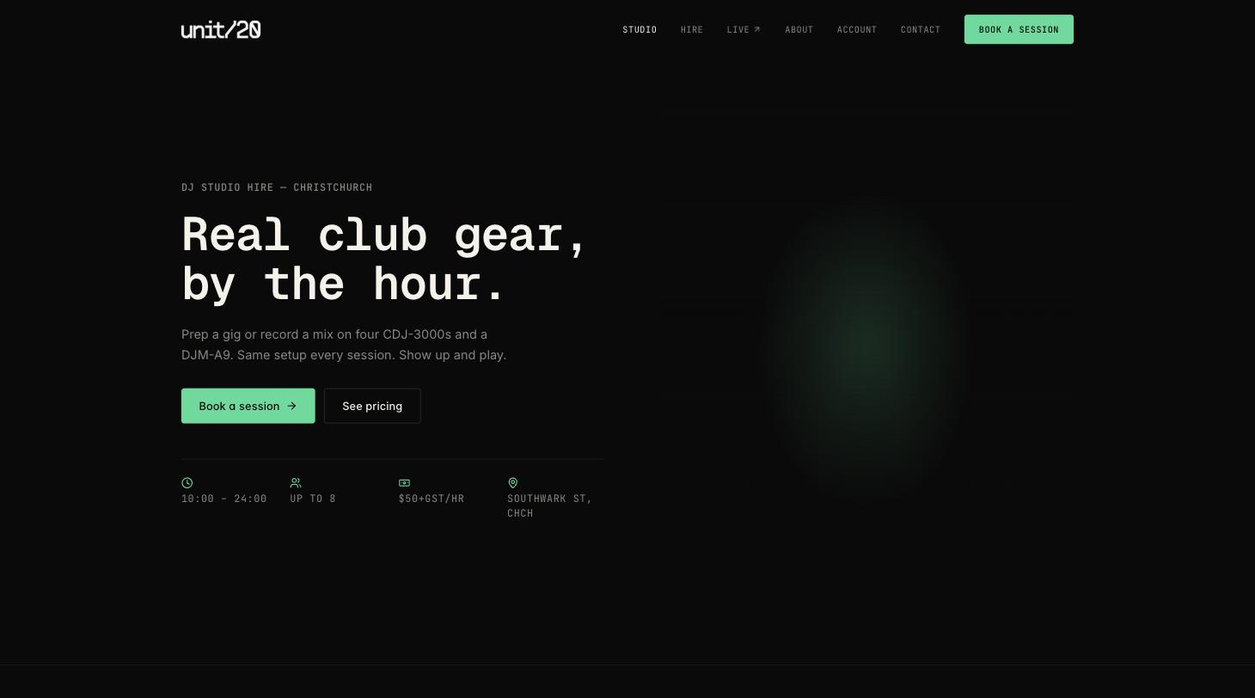
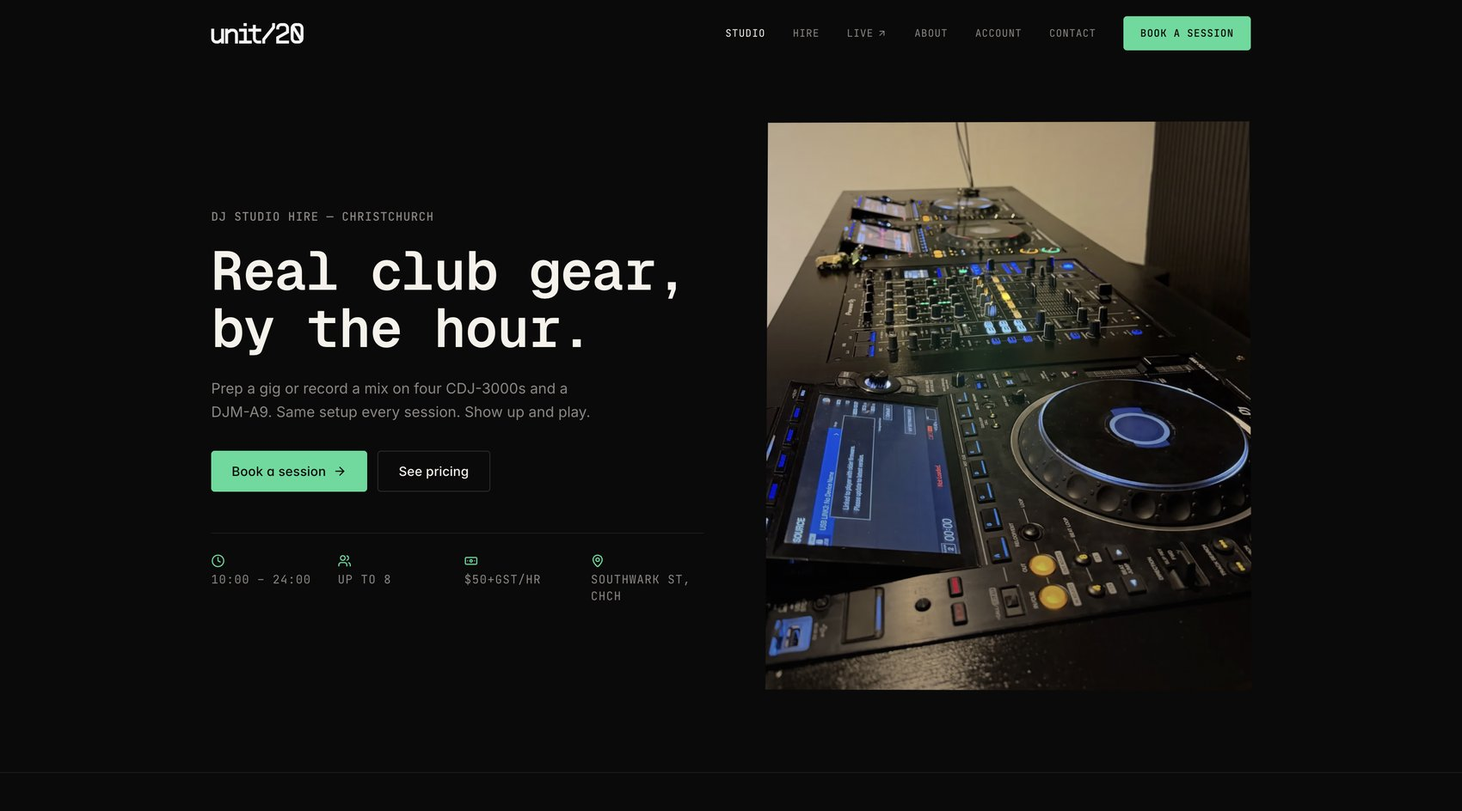
Add event photography, refresh hero copy, simplify nav
- Add five new photos (OurSound, cellar, crew marquee, truck, studio admin)
  and fill the previously empty project image slot; replace studio-site.jpg
  with a higher-resolution version
- Rework hero intro copy: credit Joseph Hendry as co-builder of the Unit 20
  ticketing platform, mention the studio booking site
- Simplify the top nav to wordmark plus a Download CV button
- Update the CV PDF

diff --git a/index.html b/index.html
@@ -63,17 +63,8 @@
 <div style="background: var(--color-bg); overflow-x: hidden;">
 
   <div style="position: fixed; top: 0; left: 0; right: 0; z-index: 60; display: flex; align-items: center; gap: 20px; padding: 14px clamp(20px, 5vw, 56px); background: color-mix(in srgb, var(--color-bg) 82%, transparent); backdrop-filter: blur(14px); border-bottom: 1px solid var(--color-neutral-800);">
-    <a href="#top" style="font-family: var(--font-heading); font-weight: 500; font-size: 15px; color: var(--color-text); margin-right: auto; display: flex; align-items: center; gap: 10px;">
-      <span style="width: 9px; height: 9px; border-radius: 50%; background: var(--accent); box-shadow: 0 0 12px var(--accent); display: inline-block;"></span>
-      Will Thompson
-    </a>
-    <div style="display: flex; gap: clamp(10px, 2vw, 24px); font-size: 12.5px; font-weight: 500; letter-spacing: 0.02em;">
-      <a href="#unit20" style="color: var(--color-neutral-300);" style-hover="color: var(--color-text);">Unit 20</a>
-      <a href="#allears" style="color: var(--color-neutral-300);" style-hover="color: var(--color-text);">All Ears</a>
-      <a href="#software" style="color: var(--color-neutral-300);" style-hover="color: var(--color-text);">Software</a>
-      <a href="#crew" style="color: var(--color-neutral-300);" style-hover="color: var(--color-text);">The app</a>
-      <a href="#cv" class="btn btn-primary" style="padding: 6px 14px; font-size: 12.5px;">CV ↓</a>
-    </div>
+    <a href="#top" style="font-family: var(--font-heading); font-weight: 500; font-size: 15px; color: var(--color-text); margin-right: auto;">Will Thompson</a>
+    <a href="{{ cvUrl }}" download="Will Thompson CV.pdf" class="btn btn-primary" style="padding: 6px 14px; font-size: 12.5px;">Download CV</a>
   </div>
 
   <section id="top" data-screen-label="Hero" style="position: relative; min-height: 108vh; display: flex; align-items: center; padding: 120px clamp(20px, 5vw, 56px) 60px;">
@@ -84,12 +75,12 @@
         <div style="font-size: 11px; color: var(--color-neutral-400); margin-top: 8px;">Twominds · lasers &amp; LED</div>
       </div>
       <div data-phys="0.78,0.05,150,3" style="position: absolute; width: clamp(130px, 14vw, 240px); will-change: transform;">
-        <div class="lighten"><img src="https://allears.nz/events/concarne4.webp" alt="ConCarne Wild Horses" style="display: block; width: 100%; border-radius: var(--radius-md); pointer-events: none;"></div>
-        <div style="font-size: 11px; color: var(--color-neutral-400); margin-top: 8px;">ConCarne · lighting &amp; FX</div>
+        <div class="lighten"><img src="assets/oursound-event.jpg" alt="OurSound monthly event" style="display: block; width: 100%; border-radius: var(--radius-md); pointer-events: none;"></div>
+        <div style="font-size: 11px; color: var(--color-neutral-400); margin-top: 8px;">OurSound · our monthly events</div>
       </div>
       <div data-phys="0.05,0.62,120,2" style="position: absolute; width: clamp(110px, 11vw, 190px); will-change: transform;">
-        <div class="lighten"><img src="https://allears.nz/events/rvsitelighting.webp" alt="Rhythm and Vines site lighting" style="display: block; width: 100%; border-radius: var(--radius-md); pointer-events: none;"></div>
-        <div style="font-size: 11px; color: var(--color-neutral-400); margin-top: 8px;">R&amp;V · site lighting</div>
+        <div class="lighten"><img src="https://allears.nz/events/rvgarden20252.webp" alt="Rhythm and Vines Garden Stage" style="display: block; width: 100%; border-radius: var(--radius-md); pointer-events: none;"></div>
+        <div style="font-size: 11px; color: var(--color-neutral-400); margin-top: 8px;">R&amp;V · Garden Stage</div>
       </div>
       <div data-phys="0.86,0.60,140,-3" style="position: absolute; width: clamp(120px, 13vw, 220px); will-change: transform;">
         <div class="lighten"><img src="https://allears.nz/events/flowdanchch6.webp" alt="Flowdan NZ tour" style="display: block; width: 100%; border-radius: var(--radius-md); pointer-events: none;"></div>
@@ -105,7 +96,7 @@
       </div>
       <div data-phys="0.94,0.32,110,4" style="position: absolute; width: clamp(100px, 10vw, 180px); will-change: transform;">
         <img src="assets/unit20-site.jpg" alt="unit20.nz ticketing site" style="display: block; width: 100%; aspect-ratio: 16/10; object-fit: cover; border-radius: 8px; border: 1px solid var(--color-neutral-600); pointer-events: none;">
-        <div style="font-size: 11px; color: var(--color-neutral-400); margin-top: 8px;">unit20.nz · ticketing, built solo</div>
+        <div style="font-size: 11px; color: var(--color-neutral-400); margin-top: 8px;">unit20.nz · ticketing platform</div>
       </div>
       <div data-phys="0.16,0.78,110,3" style="position: absolute; width: clamp(100px, 10vw, 180px); will-change: transform;">
         <img src="assets/studio-site.jpg" alt="studio.unit20.nz" style="display: block; width: 100%; border-radius: var(--radius-md); border: 1px solid var(--color-neutral-600); pointer-events: none;">
@@ -116,28 +107,24 @@
         <div style="font-size: 11px; color: var(--color-neutral-400); margin-top: 8px;">the code underneath</div>
       </div>
       <div data-phys="0.45,0.90,100,-3" style="position: absolute; width: clamp(90px, 9vw, 160px); will-change: transform;">
-        <image-slot id="hero-uni" shape="rounded" radius="8" style="width: 100%; aspect-ratio: 16/10;" placeholder="Uni project screenshot"></image-slot>
-        <div style="font-size: 11px; color: var(--color-neutral-400); margin-top: 8px;">SENG302 · university build</div>
+        <img src="assets/studio-admin.jpg" alt="Unit 20 studio admin dashboard" style="display: block; width: 100%; aspect-ratio: 16/10; object-fit: cover; object-position: left top; border-radius: 8px; border: 1px solid var(--color-neutral-600); pointer-events: none;">
+        <div style="font-size: 11px; color: var(--color-neutral-400); margin-top: 8px;">the studio admin · built this too</div>
       </div>
     </div>
 
     <div style="position: relative; z-index: 2; max-width: 1200px; margin: 0 auto; width: 100%; text-align: left; pointer-events: none;">
     <div data-hero-copy style="display: inline-block; max-width: 100%;">
-      <div style="display: inline-flex; align-items: center; gap: 10px; border: 1px solid var(--color-neutral-700); border-radius: 999px; padding: 8px 16px; font-size: 12.5px; color: var(--color-neutral-200); pointer-events: auto; animation: popSm linear both; animation-timeline: view(); animation-range: entry 0% entry 50%;">
-        <span style="width: 8px; height: 8px; border-radius: 50%; background: var(--accent); box-shadow: 0 0 10px var(--accent);"></span>
-        Christchurch, NZ · software engineer · founder
-      </div>
+      <div style="font-size: 12.5px; letter-spacing: 0.08em; text-transform: uppercase; color: var(--color-neutral-300); animation: popSm linear both; animation-timeline: view(); animation-range: entry 0% entry 50%;">Ōtautahi · software engineer · founder</div>
       <h1 style="font-size: clamp(42px, 7.6vw, 118px); line-height: 1.0; letter-spacing: -0.04em; font-weight: 500; margin: 26px 0 0; max-width: 14ch; animation: pop linear both; animation-timeline: view(); animation-range: entry 0% entry 80%;">
         I run shows.<br>
         I write the <span style="background: linear-gradient(90deg, var(--accent), var(--accent-soft), var(--accent)); background-size: 300% 100%; -webkit-background-clip: text; background-clip: text; color: transparent; animation: gradText 12s linear infinite;">software</span><br>
         that runs them.
       </h1>
       <p style="font-size: clamp(15px, 1.4vw, 19px); line-height: 1.55; color: var(--color-neutral-200); max-width: 52ch; margin: 26px 0 0; text-wrap: pretty; animation: popSm linear both; animation-timeline: view(); animation-range: entry 0% cover 6%;">
-        Will Thompson, founder of <a href="#allears" style="color: var(--accent); pointer-events: auto;">All Ears Events</a>, operator of the <a href="#unit20" style="color: var(--accent); pointer-events: auto;">Unit 20</a> warehouse &amp; studios, and sole developer of <a href="#crew" style="color: var(--accent); pointer-events: auto;">All Ears Crew</a>, the Unit 20 ticketing platform and the studio booking site that run it all.
+        Will Thompson, founder of <a href="#allears" style="color: var(--accent); pointer-events: auto;">All Ears Events</a>, operator of the <a href="#unit20" style="color: var(--accent); pointer-events: auto;">Unit 20</a> warehouse &amp; studios, sole developer of <a href="#crew" style="color: var(--accent); pointer-events: auto;">All Ears Crew</a> and the studio booking site, and co-builder of the Unit 20 ticketing platform with Joseph Hendry.
       </p>
       <div style="display: flex; align-items: center; gap: 14px; margin-top: 34px; pointer-events: auto; animation: popSm linear both; animation-timeline: view(); animation-range: entry 0% cover 8%;">
-        <a href="#unit20" class="btn btn-primary">Take the tour</a>
-        <a href="#cv" class="btn btn-ghost">Download CV</a>
+        <a href="#allears" class="btn btn-primary">Take the tour</a>
       </div>
     </div>
     </div>
@@ -147,78 +134,38 @@
 
   <div style="border-top: 1px solid var(--color-neutral-800); border-bottom: 1px solid var(--color-neutral-800);">
     <div style="max-width: 1200px; margin: 0 auto; padding: 24px clamp(20px, 5vw, 56px); display: flex; flex-wrap: wrap; align-items: baseline; gap: 16px 40px;">
-      <span style="font-size: 12px; letter-spacing: 0.08em; text-transform: uppercase; color: var(--color-neutral-400);">Selected work</span>
+      <span style="font-size: 12px; letter-spacing: 0.08em; text-transform: uppercase; color: var(--color-neutral-400);">In numbers</span>
       <div style="display: flex; flex-wrap: wrap; gap: 16px 32px; font-size: 14px; color: var(--color-neutral-200);">
-        <span>Rhythm &amp; Vines</span><span>Red Bull</span><span>George FM</span><span>Flowdan</span><span>Twominds</span><span>Our Sound</span><span>Kathryn Wilson</span>
+        <span><strong style="color: var(--color-text); font-weight: 600;">2024</strong> All Ears founded</span><span><strong style="color: var(--color-text); font-weight: 600;">350 to 500</strong> at monthly OurSound events</span><span><strong style="color: var(--color-text); font-weight: 600;">$54,000+</strong> in ticket payments processed</span><span><strong style="color: var(--color-text); font-weight: 600;">39,500</strong> lines of production code</span>
       </div>
     </div>
   </div>
-
-  <section id="unit20" data-screen-label="Unit 20" style="position: relative; max-width: 1200px; margin: 0 auto; padding: clamp(80px, 12vh, 150px) clamp(20px, 5vw, 56px) 0;">
-    <div style="display: inline-flex; align-items: center; gap: 8px; background: color-mix(in srgb, var(--accent) 14%, transparent); color: var(--accent); border-radius: 999px; padding: 6px 14px; font-size: 12px; font-weight: 600; letter-spacing: 0.08em; text-transform: uppercase; animation: popSm linear both; animation-timeline: view(); animation-range: entry 0% entry 80%;">The HQ</div>
-    <h2 style="font-size: clamp(34px, 5.4vw, 76px); line-height: 1.02; letter-spacing: -0.035em; font-weight: 500; margin: 18px 0 0; max-width: 18ch; animation: pop linear both; animation-timeline: view(); animation-range: entry 0% cover 12%;">Unit 20, a warehouse that runs itself.</h2>
-    <div data-grid style="display: grid; grid-template-columns: minmax(0, 1fr) minmax(0, 1.1fr); gap: clamp(24px, 4vw, 64px); margin-top: clamp(28px, 4vw, 48px); align-items: start;">
-      <div>
-        <p style="font-size: clamp(15px, 1.3vw, 18px); line-height: 1.6; color: var(--color-neutral-200); margin: 0; text-wrap: pretty;">
-          Warehouse, workshop, event space and bookable studios. It's the base every show packs out of, and the proving ground for everything I build: customers schedule their own pickups and the door unlocks itself with a time-boxed code, labels print unattended in the workshop, and a wall display shows the crew what's leaving today.
-        </p>
-        <div style="display: flex; flex-direction: column; gap: 0; margin-top: 28px; border-top: 1px solid var(--color-neutral-800);">
-          <div style="display: flex; gap: 14px; padding: 16px 0; border-bottom: 1px solid var(--color-neutral-800); animation: popSm linear both; animation-timeline: view(); animation-range: entry 0% cover 18%;">
-            <div><strong style="font-weight: 600;">Self-service dry hire.</strong> <span style="color: var(--color-neutral-300);">Pick a time online, get a door code by email, collect your gear. A customer can pick up at 7am on a Sunday with nobody on site.</span></div>
-          </div>
-          <div style="display: flex; gap: 14px; padding: 16px 0; border-bottom: 1px solid var(--color-neutral-800); animation: popSm linear both; animation-timeline: view(); animation-range: entry 0% cover 22%;">
-            <div><strong style="font-weight: 600;">Unit 20 Studios.</strong> <span style="color: var(--color-neutral-300);">A DJ practice studio booked online at studio.unit20.nz. Pay, verify your ID once, and your door code arrives automatically.</span></div>
-          </div>
-          <div style="display: flex; gap: 14px; padding: 16px 0; border-bottom: 1px solid var(--color-neutral-800); animation: popSm linear both; animation-timeline: view(); animation-range: entry 0% cover 24%;">
-            <div><strong style="font-weight: 600;">Unit 20 Live.</strong> <span style="color: var(--color-neutral-300);">Ticketing for our own shows at unit20.nz. Card payments, QR check-in, pre-sale ballots and a full admin dashboard, with $54,000+ in payments processed to date.</span></div>
-          </div>
-          <div style="display: flex; gap: 14px; padding: 16px 0; border-bottom: 1px solid var(--color-neutral-800); animation: popSm linear both; animation-timeline: view(); animation-range: entry 0% cover 26%;">
-            <div><strong style="font-weight: 600;">One shared system.</strong> <span style="color: var(--color-neutral-300);">The studio and the AV company share one database, so the studio calendar automatically refuses bookings on days the decks are out on a show.</span></div>
-          </div>
-        </div>
-      </div>
-      <div style="position: relative; min-height: 480px;">
-        <div style="position: absolute; top: 0; left: 0; width: 62%; rotate: -3deg; z-index: 2; animation: float2 linear both; animation-timeline: view(); animation-range: cover 0% cover 100%;">
-          <img src="assets/unit20-building.jpg" alt="The Unit 20 building on Southwark Street" style="display: block; width: 100%; aspect-ratio: 4/3; object-fit: cover; border-radius: 10px;">
-          <div style="font-size: 11px; color: var(--color-neutral-400); margin-top: 6px;">Unit 20, Southwark Street</div>
-        </div>
-        <div style="position: absolute; top: 34%; right: 0; width: 52%; rotate: 2.5deg; z-index: 3; animation: float1 linear both; animation-timeline: view(); animation-range: cover 0% cover 100%;">
-          <image-slot id="u20-lock" shape="rounded" radius="10" style="width: 100%; aspect-ratio: 1/1;" placeholder="The smart lock / door code moment"></image-slot>
-          <div style="font-size: 11px; color: var(--color-neutral-400); margin-top: 6px; text-align: right;">The door that opens itself</div>
-        </div>
-        <div style="position: absolute; bottom: 0; left: 8%; width: 48%; rotate: 1.5deg; z-index: 1; animation: float5 linear both; animation-timeline: view(); animation-range: cover 0% cover 100%;">
-          <img src="assets/studio-room.jpg" alt="Unit 20 Studios DJ room" style="display: block; width: 100%; aspect-ratio: 4/3; object-fit: cover; object-position: center 60%; border-radius: 10px;">
-          <div style="font-size: 11px; color: var(--color-neutral-400); margin-top: 6px;">Studios</div>
-        </div>
-      </div>
-    </div>
-  </section>
 
   <section id="allears" data-screen-label="All Ears" style="position: relative; max-width: 1200px; margin: 0 auto; padding: clamp(80px, 12vh, 150px) clamp(20px, 5vw, 56px) 0;">
     <div style="display: inline-flex; align-items: center; gap: 8px; background: color-mix(in srgb, var(--accent) 14%, transparent); color: var(--accent); border-radius: 999px; padding: 6px 14px; font-size: 12px; font-weight: 600; letter-spacing: 0.08em; text-transform: uppercase; animation: popSm linear both; animation-timeline: view(); animation-range: entry 0% entry 80%;">The shows</div>
     <div data-grid style="display: grid; grid-template-columns: minmax(0, 1.1fr) minmax(0, 0.9fr); gap: clamp(24px, 4vw, 64px); margin-top: 18px; align-items: end;">
       <h2 style="font-size: clamp(34px, 5.4vw, 76px); line-height: 1.02; letter-spacing: -0.035em; font-weight: 500; margin: 0; max-width: 16ch;  animation: pop linear both; animation-timeline: view(); animation-range: entry 0% cover 12%;">All Ears Events. Sound, lighting and full production.</h2>
       <p style="font-size: clamp(15px, 1.3vw, 18px); line-height: 1.6; color: var(--color-neutral-200); margin: 0 0 8px; text-wrap: pretty;">
-        Founded March 2024. From school balls to festival stages, including Rhythm and Vines, Red Bull, GeorgeFM, Flowdan and Twominds, with a crew roster, a truck and a compliance trail for every job. <a href="https://allears.nz" style="color: var(--accent);">allears.nz ↗</a>
+        Founded early 2024. From school balls and corporate events to festival stages, All Ears carries an extensive audio visual inventory and a skilled crew ready for any job, run from a 600 square metre warehouse in central Christchurch. I also run OurSound, a promotion company whose monthly house music events regularly draw 350 to 500 people. <a href="https://allears.nz" style="color: var(--accent);">allears.nz ↗</a>
       </p>
     </div>
 
     <div data-grid style="display: grid; grid-template-columns: 1fr 1fr 1fr; gap: 16px; margin-top: clamp(32px, 5vw, 56px);">
       <div style="display: flex; flex-direction: column; gap: 16px; animation: colUp linear both; animation-timeline: view(); animation-range: cover 0% cover 100%;">
-        <div class="lighten"><img src="https://allears.nz/events/rvgarden20252.webp" alt="R&amp;V Garden Stage" style="display: block; width: 100%; border-radius: var(--radius-md);"></div>
+        <img src="assets/crew-marquee.jpg" alt="All Ears crew mixing front of house" style="display: block; width: 100%; border-radius: var(--radius-md);">
         <div class="lighten"><img src="https://allears.nz/events/oursound23.webp" alt="Our Sound production" style="display: block; width: 100%; border-radius: var(--radius-md);"></div>
       </div>
       <div style="display: flex; flex-direction: column; gap: 16px; margin-top: 40px; animation: colDown linear both; animation-timeline: view(); animation-range: cover 0% cover 100%;">
-        <div class="lighten"><img src="https://allears.nz/events/h4h4.webp" alt="HIIT for Hope broadcast stage" style="display: block; width: 100%; border-radius: var(--radius-md);"></div>
+        <div class="lighten"><img src="https://allears.nz/events/h4h3.webp" alt="HIIT for Hope broadcast stage" style="display: block; width: 100%; border-radius: var(--radius-md);"></div>
         <div class="lighten"><img src="https://allears.nz/events/ayrburn10.webp" alt="Kathryn Wilson, Stilettos in the Vines" style="display: block; width: 100%; border-radius: var(--radius-md);"></div>
       </div>
       <div style="display: flex; flex-direction: column; gap: 16px; animation: colUp linear both; animation-timeline: view(); animation-range: cover 0% cover 100%;">
-        <div class="lighten"><img src="https://allears.nz/events/redbullwfl26.webp" alt="Red Bull WFL World Run" style="display: block; width: 100%; border-radius: var(--radius-md);"></div>
-        <div class="lighten"><img src="https://allears.nz/events/lads25run2.webp" alt="Run72 site lighting" style="display: block; width: 100%; border-radius: var(--radius-md);"></div>
+        <img src="assets/truck-lake.jpg" alt="All Ears truck at a lakeside event" style="display: block; width: 100%; border-radius: var(--radius-md);">
+        <img src="assets/cellar-circle.jpg" alt="Cellar Circle in the trees" style="display: block; width: 100%; border-radius: var(--radius-md);">
       </div>
     </div>
     <div style="margin-top: 14px; display: flex; justify-content: space-between; font-size: 11px; color: var(--color-neutral-400);">
-      <span>R&amp;V · Our Sound · HIIT for Hope · Kathryn Wilson · Red Bull · Run72</span>
+      <span>The crew · Our Sound · HIIT for Hope · Kathryn Wilson · Breast Cancer Cure · Cellar Circle</span>
       <span>photos from allears.nz</span>
     </div>
   </section>
@@ -267,6 +214,46 @@
     </div>
   </section>
 
+  <section id="unit20" data-screen-label="Unit 20" style="position: relative; max-width: 1200px; margin: 0 auto; padding: clamp(80px, 12vh, 150px) clamp(20px, 5vw, 56px) 0;">
+    <div style="display: inline-flex; align-items: center; gap: 8px; background: color-mix(in srgb, var(--accent) 14%, transparent); color: var(--accent); border-radius: 999px; padding: 6px 14px; font-size: 12px; font-weight: 600; letter-spacing: 0.08em; text-transform: uppercase; animation: popSm linear both; animation-timeline: view(); animation-range: entry 0% entry 80%;">The HQ</div>
+    <h2 style="font-size: clamp(34px, 5.4vw, 76px); line-height: 1.02; letter-spacing: -0.035em; font-weight: 500; margin: 18px 0 0; max-width: 18ch; animation: pop linear both; animation-timeline: view(); animation-range: entry 0% cover 12%;">Unit 20, a warehouse that runs itself.</h2>
+    <div data-grid style="display: grid; grid-template-columns: minmax(0, 1fr) minmax(0, 1.1fr); gap: clamp(24px, 4vw, 64px); margin-top: clamp(28px, 4vw, 48px); align-items: start;">
+      <div>
+        <p style="font-size: clamp(15px, 1.3vw, 18px); line-height: 1.6; color: var(--color-neutral-200); margin: 0; text-wrap: pretty;">
+          Warehouse, workshop, event space and bookable studios. It's the base every show packs out of, and the proving ground for everything I build: customers schedule their own pickups and the door unlocks itself with a time-boxed code, labels print unattended in the workshop, and a wall display shows the crew what's leaving today.
+        </p>
+        <div style="display: flex; flex-direction: column; gap: 0; margin-top: 28px; border-top: 1px solid var(--color-neutral-800);">
+          <div style="display: flex; gap: 14px; padding: 16px 0; border-bottom: 1px solid var(--color-neutral-800); animation: popSm linear both; animation-timeline: view(); animation-range: entry 0% cover 18%;">
+            <div><strong style="font-weight: 600;">Self-service dry hire.</strong> <span style="color: var(--color-neutral-300);">Pick a time online, get a door code by email, collect your gear. A customer can pick up at 7am on a Sunday with nobody on site.</span></div>
+          </div>
+          <div style="display: flex; gap: 14px; padding: 16px 0; border-bottom: 1px solid var(--color-neutral-800); animation: popSm linear both; animation-timeline: view(); animation-range: entry 0% cover 22%;">
+            <div><strong style="font-weight: 600;">Unit 20 Studios.</strong> <span style="color: var(--color-neutral-300);">A DJ practice studio booked online at studio.unit20.nz. Pay, verify your ID once, and your door code arrives automatically.</span></div>
+          </div>
+          <div style="display: flex; gap: 14px; padding: 16px 0; border-bottom: 1px solid var(--color-neutral-800); animation: popSm linear both; animation-timeline: view(); animation-range: entry 0% cover 24%;">
+            <div><strong style="font-weight: 600;">Unit 20 Live.</strong> <span style="color: var(--color-neutral-300);">Ticketing for our own shows at unit20.nz, built with Joseph Hendry. Card payments, QR check-in, pre-sale ballots and a full admin dashboard, with $54,000+ in payments processed to date.</span></div>
+          </div>
+          <div style="display: flex; gap: 14px; padding: 16px 0; border-bottom: 1px solid var(--color-neutral-800); animation: popSm linear both; animation-timeline: view(); animation-range: entry 0% cover 26%;">
+            <div><strong style="font-weight: 600;">One shared system.</strong> <span style="color: var(--color-neutral-300);">The studio and the AV company share one database, so the studio calendar automatically refuses bookings on days the decks are out on a show.</span></div>
+          </div>
+        </div>
+      </div>
+      <div style="position: relative; min-height: 480px;">
+        <div style="position: absolute; top: 0; left: 0; width: 62%; rotate: -3deg; z-index: 2; animation: float2 linear both; animation-timeline: view(); animation-range: cover 0% cover 100%;">
+          <img src="assets/unit20-building.jpg" alt="The Unit 20 building on Southwark Street" style="display: block; width: 100%; aspect-ratio: 4/3; object-fit: cover; border-radius: 10px;">
+          <div style="font-size: 11px; color: var(--color-neutral-400); margin-top: 6px;">Unit 20, Southwark Street</div>
+        </div>
+        <div style="position: absolute; top: 34%; right: 0; width: 52%; rotate: 2.5deg; z-index: 3; animation: float1 linear both; animation-timeline: view(); animation-range: cover 0% cover 100%;">
+          <image-slot id="u20-lock" shape="rounded" radius="10" style="width: 100%; aspect-ratio: 1/1;" placeholder="The smart lock / door code moment"></image-slot>
+          <div style="font-size: 11px; color: var(--color-neutral-400); margin-top: 6px; text-align: right;">The door that opens itself</div>
+        </div>
+        <div style="position: absolute; bottom: 0; left: 8%; width: 48%; rotate: 1.5deg; z-index: 1; animation: float5 linear both; animation-timeline: view(); animation-range: cover 0% cover 100%;">
+          <img src="assets/studio-room.jpg" alt="Unit 20 Studios DJ room" style="display: block; width: 100%; aspect-ratio: 4/3; object-fit: cover; object-position: center 60%; border-radius: 10px;">
+          <div style="font-size: 11px; color: var(--color-neutral-400); margin-top: 6px;">Studios</div>
+        </div>
+      </div>
+    </div>
+  </section>
+
   <section id="crew" data-screen-label="All Ears Crew app" style="position: relative; margin-top: clamp(80px, 12vh, 150px); background: linear-gradient(180deg, var(--color-section, #232059), color-mix(in srgb, var(--color-bg) 88%, var(--accent))); border-top: 1px solid var(--color-neutral-700); border-bottom: 1px solid var(--color-neutral-700);">
     <div style="max-width: 1200px; margin: 0 auto; padding: clamp(64px, 10vh, 130px) clamp(20px, 5vw, 56px);">
       <div style="display: inline-flex; align-items: center; gap: 8px; background: color-mix(in srgb, var(--accent) 16%, transparent); color: var(--accent); border-radius: 999px; padding: 6px 14px; font-size: 12px; font-weight: 600; letter-spacing: 0.08em; text-transform: uppercase;">The app</div>
@@ -296,26 +283,30 @@
         <div style="display: flex; flex-direction: column; gap: 0; border-top: 1px solid var(--color-neutral-600);">
           <div style="padding: 18px 0; border-bottom: 1px solid var(--color-neutral-600); animation: popSm linear both; animation-timeline: view(); animation-range: entry 0% cover 16%;">
             <div style="font-weight: 600; margin-bottom: 8px; color: var(--color-text);">Doors that open themselves</div>
-            <div style="color: var(--color-neutral-200); line-height: 1.55;">Customers book a pickup and the system issues a time-boxed smart-lock door code. The lock validates it offline, so it works even with no internet at the door. This one feature removed the need for staffed handovers entirely.</div>
+            <div style="color: var(--color-neutral-200); line-height: 1.55;">Customers pick their own pickup and return time online, then get a time-boxed smart-lock door code by email. The lock validates it offline, and nobody needs to be on site. This one feature removed staffed handovers entirely.</div>
           </div>
           <div style="padding: 18px 0; border-bottom: 1px solid var(--color-neutral-600); animation: popSm linear both; animation-timeline: view(); animation-range: entry 0% cover 20%;">
-            <div style="font-weight: 600; margin-bottom: 8px; color: var(--color-text);">Safety paperwork that writes itself</div>
-            <div style="color: var(--color-neutral-200); line-height: 1.55;">AI drafts NZ SiteSafe SSSP documents from the job's actual gear, venue and crew. A person always reviews and signs off before anything is sent.</div>
+            <div style="font-weight: 600; margin-bottom: 8px; color: var(--color-text);">A client pack for every job</div>
+            <div style="color: var(--color-neutral-200); line-height: 1.55;">Clients see their timings, runsheet and venue plan, answer questions the crew has posted, and upload their own files. The whole job lives in one shared place instead of an email chain.</div>
           </div>
           <div style="padding: 18px 0; border-bottom: 1px solid var(--color-neutral-600); animation: popSm linear both; animation-timeline: view(); animation-range: entry 0% cover 24%;">
-            <div style="font-weight: 600; margin-bottom: 8px; color: var(--color-text);">A warehouse that prints its own labels</div>
-            <div style="color: var(--color-neutral-200); line-height: 1.55;">Queue a label in the app and a small agent in the workshop prints it, unattended. Shipping labels and case labels both.</div>
+            <div style="font-weight: 600; margin-bottom: 8px; color: var(--color-text);">Venue plans from a photo</div>
+            <div style="color: var(--color-neutral-200); line-height: 1.55;">Upload a photo of any venue's floor plan, set the scale, and lay the show out to the metre. Works on a phone on site, and it's shared with crew and client.</div>
           </div>
           <div style="padding: 18px 0; border-bottom: 1px solid var(--color-neutral-600); animation: popSm linear both; animation-timeline: view(); animation-range: entry 0% cover 28%;">
-            <div style="font-weight: 600; margin-bottom: 8px; color: var(--color-text);">An AI teammate with an undo button</div>
-            <div style="color: var(--color-neutral-200); line-height: 1.55;">An AI assistant reads jobs and writes updates back through a tightly scoped integration. Every change is audited, surfaced in the app and reversible in one tap.</div>
+            <div style="font-weight: 600; margin-bottom: 8px; color: var(--color-text);">Runsheets and scheduling</div>
+            <div style="color: var(--color-neutral-200); line-height: 1.55;">Plan the show timeline once and share it with everyone. Crew see their shifts, accept or decline by email, and the week planner builds itself from the jobs.</div>
           </div>
           <div style="padding: 18px 0; border-bottom: 1px solid var(--color-neutral-600); animation: popSm linear both; animation-timeline: view(); animation-range: entry 0% cover 32%;">
-            <div style="font-weight: 600; margin-bottom: 8px; color: var(--color-text);">Venue plans drawn on a phone</div>
-            <div style="color: var(--color-neutral-200); line-height: 1.55;">A to-scale drag-and-drop editor for stages, PA and barriers. Metre-accurate, with an elevation view, and fast on a phone on site.</div>
+            <div style="font-weight: 600; margin-bottom: 8px; color: var(--color-text);">Quote to invoice on one record</div>
+            <div style="color: var(--color-neutral-200); line-height: 1.55;">Quote a job, convert the accepted quote into a live booking, invoice it and track what has been paid. Nothing gets re-typed along the way.</div>
+          </div>
+          <div style="padding: 18px 0; border-bottom: 1px solid var(--color-neutral-600); animation: popSm linear both; animation-timeline: view(); animation-range: entry 0% cover 36%;">
+            <div style="font-weight: 600; margin-bottom: 8px; color: var(--color-text);">One system for everything</div>
+            <div style="color: var(--color-neutral-200); line-height: 1.55;">Every piece of gear is tracked across overlapping jobs, and unit20 studio bookings surface in the same calendar, so the two businesses can never double-book each other.</div>
           </div>
           <div style="padding: 18px 0 0; font-size: 12.5px; color: var(--color-neutral-300);">
-            The full technical detail, including the architecture and security model, is in the CV below.
+            The full technical detail, including the architecture and security model, is in the CV.
           </div>
         </div>
       </div>
@@ -333,8 +324,7 @@
         Looking for a graduate software engineering role where the messy, real-world version of the problem is the interesting part: operations, logistics, hardware, live events.
       </p>
       <div style="display: flex; flex-wrap: wrap; align-items: center; gap: 14px; margin-top: 30px;">
-        <a href="{{ cvUrl }}" download="Will Thompson CV.pdf" class="btn btn-primary" style="font-size: 15px; padding: 12px 22px;">Download CV (PDF) ↓</a>
-        <a href="{{ emailHref }}" class="btn btn-ghost" style="font-size: 15px; padding: 12px 22px;">{{ email }}</a>
+        <a href="{{ emailHref }}" class="btn btn-primary" style="font-size: 15px; padding: 12px 22px;">{{ email }}</a>
       </div>
       <div style="display: flex; flex-wrap: wrap; gap: clamp(16px, 3vw, 40px); margin-top: clamp(32px, 5vw, 56px); padding-top: 20px; border-top: 1px solid var(--color-neutral-800); font-size: 12.5px; color: var(--color-neutral-300);">
         <span>021 178 0355</span>
